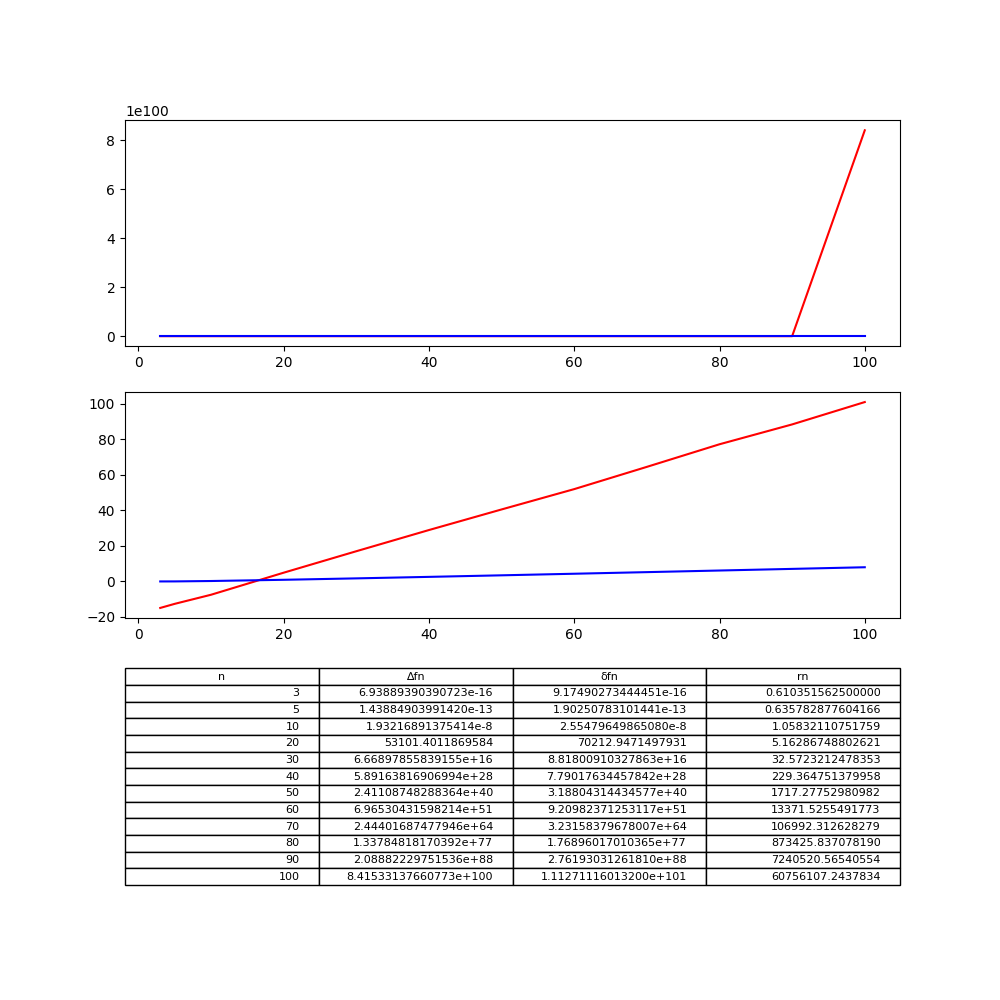
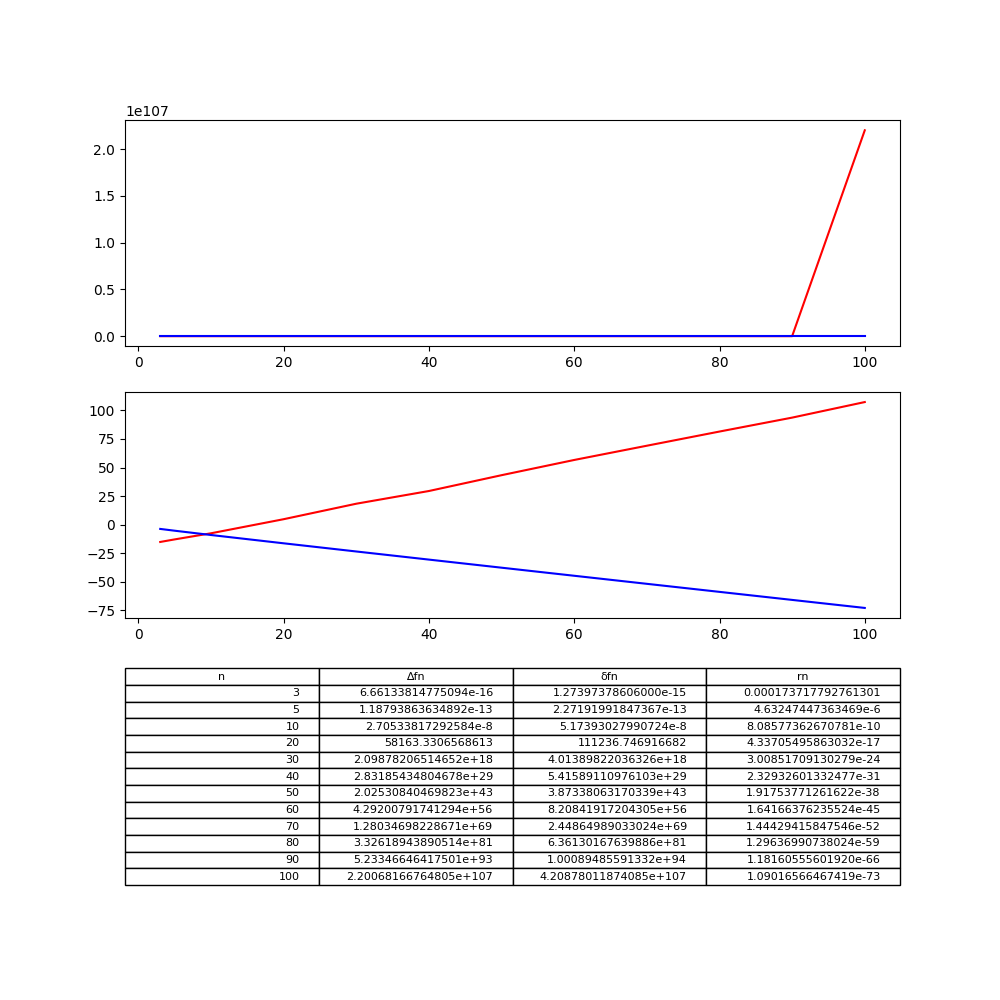
done 4th lab

diff --git a/laboratory_tasks/third_lab.py b/laboratory_tasks/third_lab.py
@@ -8,8 +8,7 @@ from sympy.core import add
 def execute_third_lab(begin_interval: float, end_interval: float, function: add):
 
     x = Symbol('x')
-    t = MidBoxMethod(2, begin_interval, end_interval, function)
-
+    t = LeftBoxMethod(2, begin_interval, end_interval, function)
     colldata1 = []
     colldata2 = []
     collabel1 = ("n", "I*", "I", "∆I", "δI", 'Rn')
@@ -17,45 +16,39 @@ def execute_third_lab(begin_interval: float, end_interval: float, function: add)
 
     colldata1.append([2, t.get_calculated_exact_integral(), t.get_value_of_method(), t.get_absolute_error(), t.get_relative_error(),
                       t.get_remainder_term()])
-
     count = 4
     while count < 2**16:
+        print(count)
         t.change_values(count, begin_interval, end_interval, function)
         colldata1.append([count, t.get_calculated_exact_integral(), t.get_value_of_method(), t.get_absolute_error(),
                           t.get_relative_error(), t.get_remainder_term()
                           ])
         count = count * 2
-
     l = LeftBoxMethod(10000, begin_interval, end_interval, function)
     colldata2.append([
         'Л. прямоугольников', l.get_calculated_exact_integral(), l.get_value_of_method(), l.get_absolute_error(),
         l.get_relative_error(), l.get_remainder_term()
     ])
-
     r = RightBoxMethod(10000, begin_interval, end_interval, function)
     colldata2.append([
         'П. прямоугольников', r.get_calculated_exact_integral(), r.get_value_of_method(), r.get_absolute_error(),
         r.get_relative_error(), r.get_remainder_term()
     ])
-
     m = MidBoxMethod(10000, begin_interval, end_interval, function)
     colldata2.append([
         'Ц. прямоугольников', m.get_calculated_exact_integral(), m.get_value_of_method(), m.get_absolute_error(),
         m.get_relative_error(), m.get_remainder_term()
     ])
-
     t.change_values(10000, begin_interval, end_interval, function)
     colldata2.append([
         'Трапеций', t.get_calculated_exact_integral(), t.get_value_of_method(), t.get_absolute_error(),
         t.get_relative_error(), t.get_remainder_term()
     ])
-
     s = SimpsonFormula(10000, begin_interval, end_interval, function)
     colldata2.append([
         'Симпсона', s.get_calculated_exact_integral(), s.get_value_of_method(), s.get_absolute_error(),
         s.get_relative_error(), s.get_remainder_term()
     ])
-
     fig, ax = plt.subplots(2, 1, figsize=(12, 12))
 
     [a.axis('off') for a in ax]

diff --git a/stuff/SplineInterpolation.py b/stuff/SplineInterpolation.py
@@ -1,0 +1,41 @@
+from stuff.BaseFunctionHandler import BaseFunctionHandler
+from sympy.core import add
+from scipy.interpolate import UnivariateSpline
+from sympy import Symbol
+
+
+class SplineInterpolation(BaseFunctionHandler):
+
+    __full_spline = 0
+    __absolute_error = 0
+    __relative_error = 0
+
+    def __init__(self, n: int, begin_interval: float, end_interval: float, function: add):
+        super().__init__(n, begin_interval, end_interval, function)
+        x = Symbol('x')
+        spl = UnivariateSpline(self._nodes, self._values_of_function)
+        self.__full_spline = spl.get_coeffs()[0] + x*spl.get_coeffs()[1] + (x**2)*spl.get_coeffs()[2] + (x**3)*spl.get_coeffs()[3]
+        self.__calculate_absolute_error()
+        self.__calculate_relative_error()
+
+    def __calculate_absolute_error(self):
+        x = Symbol('x')
+        self.__absolute_error = 0
+        for node in self._nodes:
+            if abs(self.__full_spline.subs(x, node) - self._function.subs(x, node)) > self.__absolute_error:
+                self.__absolute_error = abs(self.__full_spline.subs(x, node) - self._function.subs(x, node))
+
+    def __calculate_relative_error(self):
+        norm_of_function = 0
+        for value in self._values_of_function:
+            if abs(value) > norm_of_function:
+                norm_of_function = abs(value)
+
+        self.__relative_error = self.__absolute_error / norm_of_function
+
+    def get_absolute_error(self):
+        return self.__absolute_error
+
+    def get_relative_error(self):
+        return self.__relative_error
+

diff --git a/laboratory_tasks/second_lab_part_two.py b/laboratory_tasks/second_lab_part_two.py
@@ -7,17 +7,15 @@ def execute_second_lab_part_two(begin_interval: float, end_interval: float, func
     x = Symbol('x')
 
     main_polynom = LIP(20, begin_interval, end_interval, function)
-    print(main_polynom)
     main_polynom.compute_the_remainder_estimate_way_two()
     main_polynom_differencial = diff(main_polynom.get_polynom(), x, 1)
-    print(main_polynom_differencial)
 
     main_function_differencial = diff(function, x, 1)
 
-    main_function_differencial_in_point = main_function_differencial.subs(x, 0.72)
-    main_polynom_differencial_in_point = main_polynom_differencial.subs(x, 0.72)
+    main_function_differencial_in_point = main_function_differencial.subs(x, 0.56)
+    main_polynom_differencial_in_point = main_polynom_differencial.subs(x, 0.56)
 
     print('Минимальное значение остаточного члена: ', main_polynom.get_min_remainder_estimate())
     print('Максимальное значение остаточного члена: ', main_polynom.get_max_remainder_estimate())
 
-    print('Разность между дифференциалом полинома и функции в точке 0.72: ', main_function_differencial_in_point-main_polynom_differencial_in_point)
+    print('Разность между дифференциалом полинома и функции в точке 0.49: ', main_function_differencial_in_point-main_polynom_differencial_in_point)

diff --git a/laboratory_tasks/fourth_lab.py b/laboratory_tasks/fourth_lab.py
@@ -1,0 +1,32 @@
+from stuff.SplineInterpolation import SplineInterpolation
+from sympy.core import add
+import matplotlib.pyplot as plt
+
+
+def execute_fourth_lab(begin_interval: float, end_interval: float, function: add):
+
+    rawdata = []
+    collabel = ('n', '△fn', 'δfn')
+    absolute_error_values = []
+    n_values = []
+
+    s = SplineInterpolation(5, begin_interval, end_interval, function)
+    rawdata.append([5, s.get_absolute_error(), s.get_relative_error()])
+    absolute_error_values.append(s.get_absolute_error())
+    n_values.append(5)
+
+    for n in range(10, 101, 10):
+        s = SplineInterpolation(n, begin_interval, end_interval, function)
+        rawdata.append([n, s.get_absolute_error(), s.get_relative_error()])
+        absolute_error_values.append(s.get_absolute_error())
+        n_values.append(n)
+
+    fig, ax = plt.subplots(2, 1, figsize=(10, 10))
+
+    ax[0].plot(n_values, absolute_error_values, color='red')
+
+    ax[1].axis('tight')
+    ax[1].axis('off')
+    ax[1].table(cellText=rawdata, colLabels=collabel, loc='center')
+    plt.savefig('fourth_lab_output')
+    plt.show()

diff --git a/stuff/BaseFunctionHandler.py b/stuff/BaseFunctionHandler.py
@@ -1,6 +1,6 @@
 from sympy import log
 from sympy.core import add
-from sympy import Symbol
+from sympy import Symbol, expand
 
 
 class BaseFunctionHandler:
@@ -16,6 +16,7 @@ class BaseFunctionHandler:
             raise TypeError
 
         x = Symbol('x')
+        self._values_of_function = []
         self._interval = []
         self._n = 0
         self._nodes = []
@@ -34,4 +35,4 @@ class BaseFunctionHandler:
         self._nodes.append(end_interval)
 
         for value in self._nodes:
-            self._values_of_function.append(self._function.subs(x, value))
+            self._values_of_function.append(expand(self._function.subs(x, value)))

diff --git a/main.py b/main.py
@@ -2,7 +2,10 @@ from laboratory_tasks.first_lab import execute_first_lab
 from laboratory_tasks.second_lab_part_two import execute_second_lab_part_two
 from laboratory_tasks.third_lab import execute_third_lab
 from laboratory_tasks.second_lab import execute_second_lab
-from sympy import Symbol, ln, log, sin
+from laboratory_tasks.fourth_lab import execute_fourth_lab
+from sympy import Symbol, ln, log, sin, cos, pi
+import math
 
 x = Symbol('x')
-execute_second_lab(0.4, 0.9, ln(x)+x**2, 0.52, 0.42, 0.87, 0.67)
+
+execute_fourth_lab(0.4, 0.9, x**2+ln(x))

diff --git a/laboratory_tasks/second_lab.py b/laboratory_tasks/second_lab.py
@@ -11,7 +11,7 @@ def execute_second_lab(begin_interval: float, end_interval: float, function: add
     colllabel = ['△'+str(i)+'y' for i in range(1, n)]
     for i in range(1, n):
         rawdata.append([])
-
+    print('ok')
     main_polynom = NFIF(n, begin_interval, end_interval, function)
     print('Вычисленный интерполяционный полином: ', main_polynom.get_polynom())
     print('Значение в точке ', p1, ': ', main_polynom.get_polynom().subs(x, p1))

diff --git a/stuff/NFIF.py b/stuff/NFIF.py
@@ -28,6 +28,7 @@ class NFIF(BaseFunctionHandler):
 
         one_order = []
         for j in range(self._n - 1):
+            print(self._values_of_function[j])
             one_order.append(self._values_of_function[j + 1] - self._values_of_function[j])
         self.__table_of_finite_differences.append(one_order)
 
